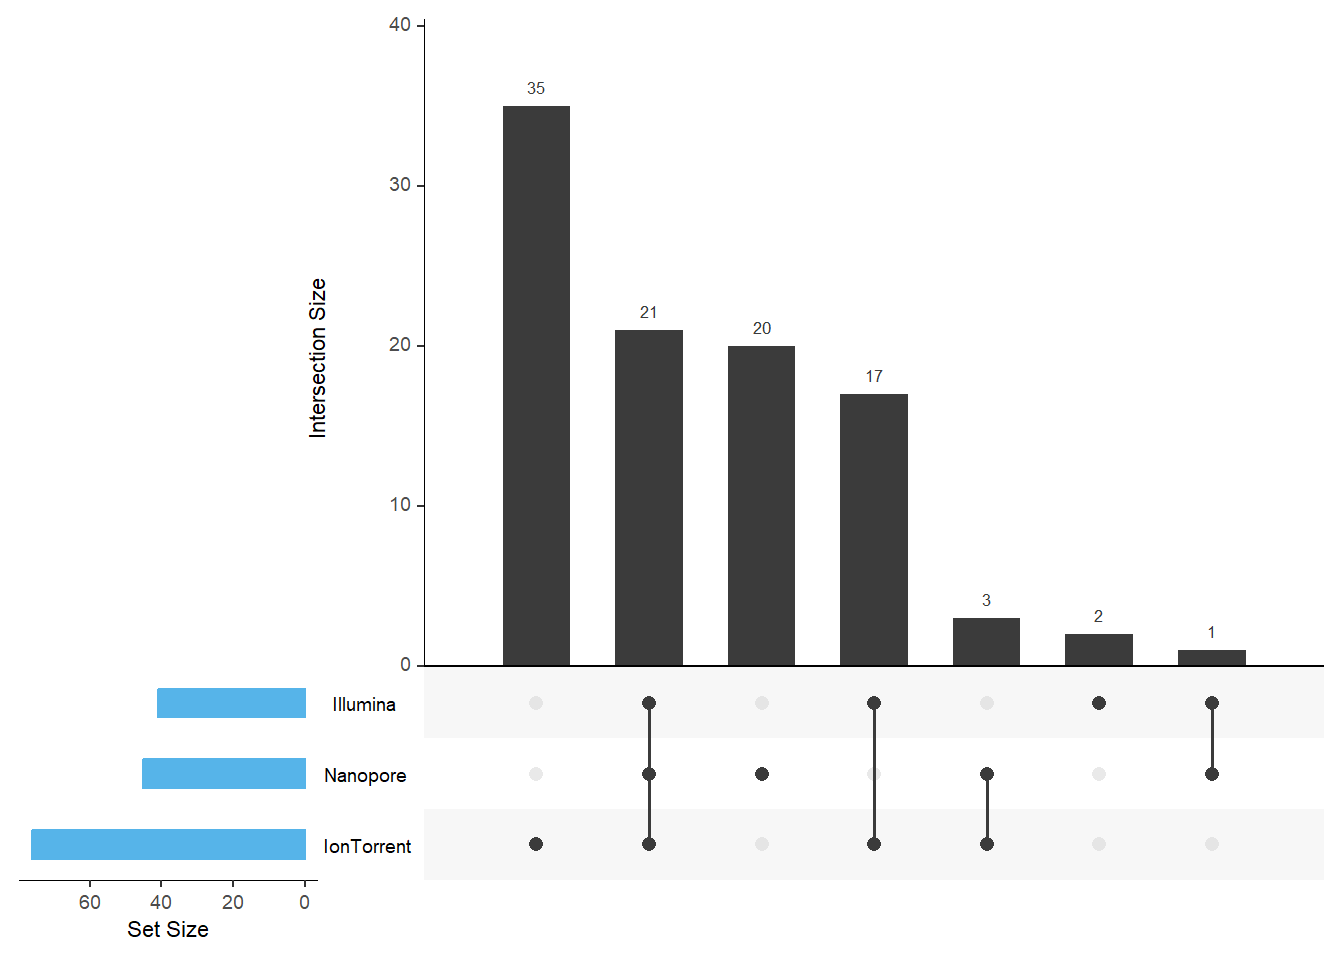
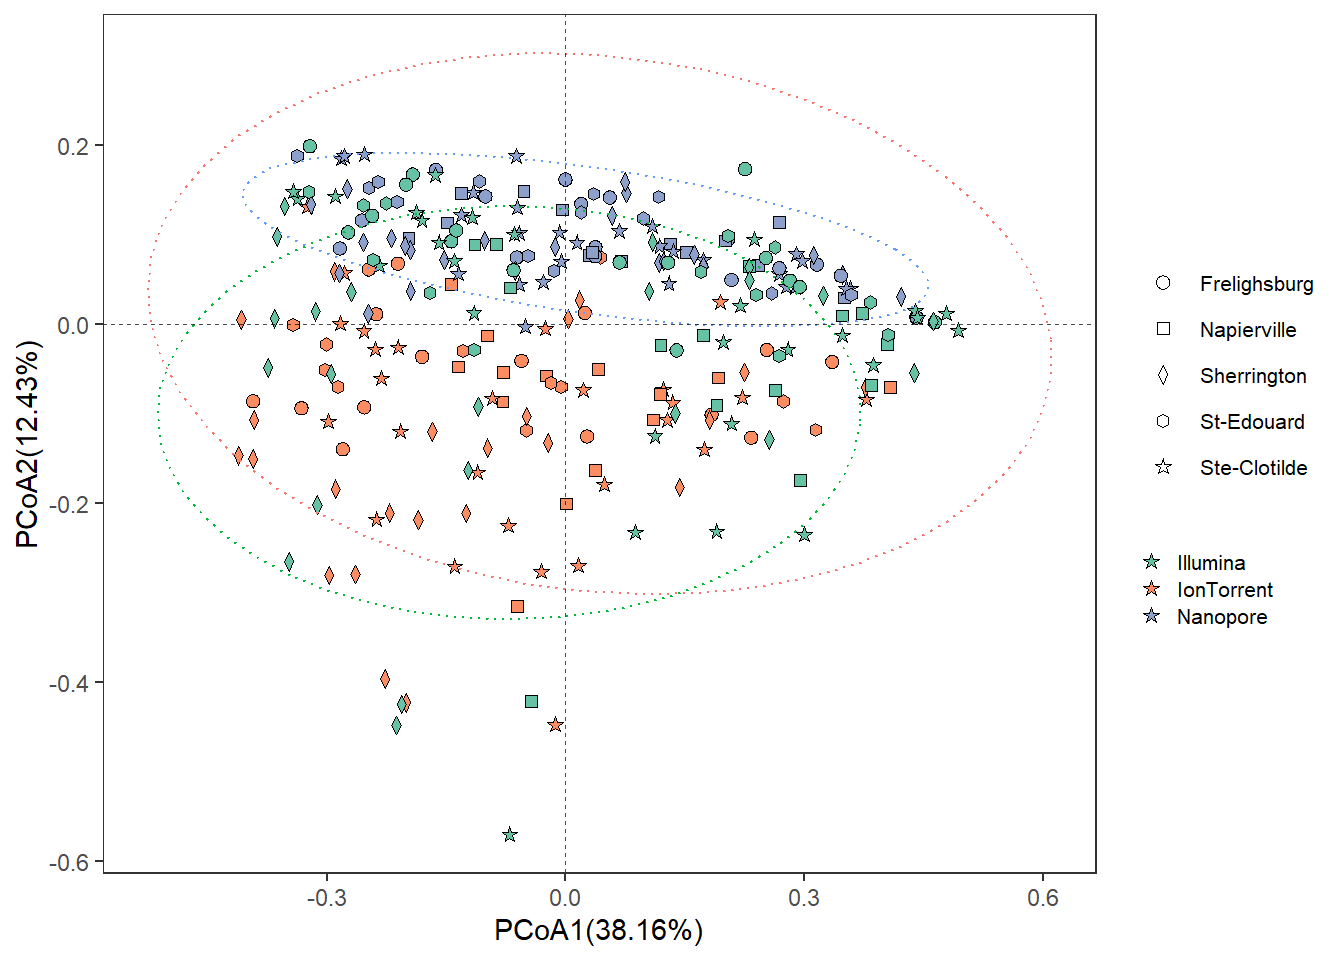
(update)

diff --git a/5_comparison.html b/5_comparison.html
@@ -488,52 +488,88 @@ div.tocify {
 <div class="sourceCode" id="cb1"><pre class="sourceCode r"><code class="sourceCode r"><span id="cb1-1"><a href="#cb1-1" tabindex="-1"></a><span class="fu">library</span>(<span class="st">&quot;MicrobiotaProcess&quot;</span>)</span>
 <span id="cb1-2"><a href="#cb1-2" tabindex="-1"></a><span class="fu">library</span>(<span class="st">&quot;ggpubr&quot;</span>)</span>
 <span id="cb1-3"><a href="#cb1-3" tabindex="-1"></a><span class="fu">library</span>(<span class="st">&quot;ape&quot;</span>)</span>
-<span id="cb1-4"><a href="#cb1-4" tabindex="-1"></a></span>
-<span id="cb1-5"><a href="#cb1-5" tabindex="-1"></a>WorkingPS<span class="ot">&lt;-</span><span class="fu">readRDS</span>(<span class="st">&quot;Processed_data/WorkingPS.rds&quot;</span>)</span></code></pre></div>
-<div class="sourceCode" id="cb2"><pre class="sourceCode r"><code class="sourceCode r"><span id="cb2-1"><a href="#cb2-1" tabindex="-1"></a>WorkingPS_glom <span class="ot">&lt;-</span> <span class="fu">get_taxadf</span>(WorkingPS, </span>
-<span id="cb2-2"><a href="#cb2-2" tabindex="-1"></a>                     <span class="at">taxlevel=</span><span class="dv">7</span>,</span>
-<span id="cb2-3"><a href="#cb2-3" tabindex="-1"></a>                     <span class="at">type =</span> <span class="st">&quot;species&quot;</span>)</span></code></pre></div>
-<div id="upset-plot" class="section level2">
-<h2>Upset Plot</h2>
-<div class="sourceCode" id="cb3"><pre class="sourceCode r"><code class="sourceCode r"><span id="cb3-1"><a href="#cb3-1" tabindex="-1"></a>upsetda <span class="ot">&lt;-</span> <span class="fu">get_upset</span>(<span class="at">obj=</span>WorkingPS_glom, <span class="at">factorNames=</span><span class="st">&quot;seq_tech&quot;</span>)</span>
-<span id="cb3-2"><a href="#cb3-2" tabindex="-1"></a><span class="fu">library</span>(VennDiagram)</span></code></pre></div>
+<span id="cb1-4"><a href="#cb1-4" tabindex="-1"></a><span class="fu">library</span>(<span class="st">&quot;VennDiagram&quot;</span>)</span></code></pre></div>
 <pre><code>## Warning: le package &#39;VennDiagram&#39; a été compilé avec la version R 4.4.1</code></pre>
 <pre><code>## Warning: le package &#39;futile.logger&#39; a été compilé avec la version R 4.4.1</code></pre>
-<div class="sourceCode" id="cb6"><pre class="sourceCode r"><code class="sourceCode r"><span id="cb6-1"><a href="#cb6-1" tabindex="-1"></a><span class="fu">library</span>(UpSetR)</span></code></pre></div>
+<div class="sourceCode" id="cb4"><pre class="sourceCode r"><code class="sourceCode r"><span id="cb4-1"><a href="#cb4-1" tabindex="-1"></a><span class="fu">library</span>(<span class="st">&quot;UpSetR&quot;</span>)</span></code></pre></div>
 <pre><code>## Warning: le package &#39;UpSetR&#39; a été compilé avec la version R 4.4.1</code></pre>
-<div class="sourceCode" id="cb8"><pre class="sourceCode r"><code class="sourceCode r"><span id="cb8-1"><a href="#cb8-1" tabindex="-1"></a><span class="fu">upset</span>(upsetda, <span class="at">sets=</span><span class="fu">unique</span>(<span class="fu">as.vector</span>(<span class="fu">sample_data</span>(WorkingPS_glom)<span class="sc">$</span>seq_tech)), </span>
-<span id="cb8-2"><a href="#cb8-2" tabindex="-1"></a>      <span class="at">sets.bar.color =</span> <span class="st">&quot;#56B4E9&quot;</span>,</span>
-<span id="cb8-3"><a href="#cb8-3" tabindex="-1"></a>      <span class="at">order.by =</span> <span class="st">&quot;freq&quot;</span>, </span>
-<span id="cb8-4"><a href="#cb8-4" tabindex="-1"></a>      <span class="at">empty.intersections =</span> <span class="st">&quot;on&quot;</span>)</span></code></pre></div>
-<p><img src="5_comparison_files/figure-html/unnamed-chunk-3-1.png" width="672" /></p>
-</div>
+<div class="sourceCode" id="cb6"><pre class="sourceCode r"><code class="sourceCode r"><span id="cb6-1"><a href="#cb6-1" tabindex="-1"></a><span class="fu">library</span>(<span class="st">&quot;vegan&quot;</span>)</span>
+<span id="cb6-2"><a href="#cb6-2" tabindex="-1"></a></span>
+<span id="cb6-3"><a href="#cb6-3" tabindex="-1"></a>WorkingPS<span class="ot">&lt;-</span><span class="fu">readRDS</span>(<span class="st">&quot;Processed_data/WorkingPS.rds&quot;</span>)</span></code></pre></div>
+<div class="sourceCode" id="cb7"><pre class="sourceCode r"><code class="sourceCode r"><span id="cb7-1"><a href="#cb7-1" tabindex="-1"></a>WorkingPS_glom <span class="ot">&lt;-</span> <span class="fu">get_taxadf</span>(WorkingPS, </span>
+<span id="cb7-2"><a href="#cb7-2" tabindex="-1"></a>                     <span class="at">taxlevel=</span><span class="dv">7</span>,</span>
+<span id="cb7-3"><a href="#cb7-3" tabindex="-1"></a>                     <span class="at">type =</span> <span class="st">&quot;species&quot;</span>)</span>
+<span id="cb7-4"><a href="#cb7-4" tabindex="-1"></a></span>
+<span id="cb7-5"><a href="#cb7-5" tabindex="-1"></a>WorkingPS_glom_tree <span class="ot">=</span> <span class="fu">rtree</span>(<span class="fu">ntaxa</span>(WorkingPS_glom), </span>
+<span id="cb7-6"><a href="#cb7-6" tabindex="-1"></a>                    <span class="at">rooted=</span><span class="cn">TRUE</span>, </span>
+<span id="cb7-7"><a href="#cb7-7" tabindex="-1"></a>                    <span class="at">tip.label=</span><span class="fu">taxa_names</span>(WorkingPS_glom))</span>
+<span id="cb7-8"><a href="#cb7-8" tabindex="-1"></a></span>
+<span id="cb7-9"><a href="#cb7-9" tabindex="-1"></a></span>
+<span id="cb7-10"><a href="#cb7-10" tabindex="-1"></a>WorkingPS_glom2 <span class="ot">&lt;-</span> <span class="fu">phyloseq</span>(phyloseq<span class="sc">::</span><span class="fu">tax_table</span>(WorkingPS_glom),</span>
+<span id="cb7-11"><a href="#cb7-11" tabindex="-1"></a>                            phyloseq<span class="sc">::</span><span class="fu">otu_table</span>(WorkingPS_glom),</span>
+<span id="cb7-12"><a href="#cb7-12" tabindex="-1"></a>                            WorkingPS_glom_tree,</span>
+<span id="cb7-13"><a href="#cb7-13" tabindex="-1"></a>                            phyloseq<span class="sc">::</span><span class="fu">sample_data</span>(WorkingPS_glom))</span></code></pre></div>
+<pre><code>## Plus d’une classe &quot;phylo&quot; est trouvée en cache : Utilisation de la première, depuis l’espace de noms &#39;phyloseq&#39;</code></pre>
+<pre><code>## Aussi défini par &#39;tidytree&#39;</code></pre>
+<pre><code>## Plus d’une classe &quot;phylo&quot; est trouvée en cache : Utilisation de la première, depuis l’espace de noms &#39;phyloseq&#39;</code></pre>
+<pre><code>## Aussi défini par &#39;tidytree&#39;</code></pre>
+<pre><code>## Plus d’une classe &quot;phylo&quot; est trouvée en cache : Utilisation de la première, depuis l’espace de noms &#39;phyloseq&#39;</code></pre>
+<pre><code>## Aussi défini par &#39;tidytree&#39;</code></pre>
+<pre><code>## Plus d’une classe &quot;phylo&quot; est trouvée en cache : Utilisation de la première, depuis l’espace de noms &#39;phyloseq&#39;</code></pre>
+<pre><code>## Aussi défini par &#39;tidytree&#39;</code></pre>
 <div id="pcoa" class="section level2">
 <h2>PcoA</h2>
-<div class="sourceCode" id="cb9"><pre class="sourceCode r"><code class="sourceCode r"><span id="cb9-1"><a href="#cb9-1" tabindex="-1"></a>pcoa_results <span class="ot">&lt;-</span> <span class="fu">get_pcoa</span>(<span class="at">obj=</span>WorkingPS_glom, </span>
-<span id="cb9-2"><a href="#cb9-2" tabindex="-1"></a>                      <span class="at">distmethod=</span><span class="st">&quot;bray&quot;</span>, </span>
-<span id="cb9-3"><a href="#cb9-3" tabindex="-1"></a>                      <span class="at">method=</span><span class="st">&quot;hellinger&quot;</span>)</span>
-<span id="cb9-4"><a href="#cb9-4" tabindex="-1"></a></span>
-<span id="cb9-5"><a href="#cb9-5" tabindex="-1"></a></span>
-<span id="cb9-6"><a href="#cb9-6" tabindex="-1"></a>pcoaplot1 <span class="ot">&lt;-</span> <span class="fu">ggordpoint</span>(<span class="at">obj=</span>pcoa_results,</span>
-<span id="cb9-7"><a href="#cb9-7" tabindex="-1"></a>                          <span class="at">pc=</span><span class="fu">c</span>(<span class="dv">1</span>, <span class="dv">2</span>),</span>
-<span id="cb9-8"><a href="#cb9-8" tabindex="-1"></a>                          <span class="at">biplot=</span><span class="cn">FALSE</span>,</span>
-<span id="cb9-9"><a href="#cb9-9" tabindex="-1"></a>                          <span class="at">factorNames=</span><span class="fu">c</span>(<span class="st">&quot;seq_tech&quot;</span>, <span class="st">&quot;Region&quot;</span>), </span>
-<span id="cb9-10"><a href="#cb9-10" tabindex="-1"></a>                          <span class="at">ellipse=</span><span class="cn">TRUE</span>,</span>
-<span id="cb9-11"><a href="#cb9-11" tabindex="-1"></a>                          <span class="at">poinsize =</span> <span class="fl">1.8</span>,</span>
-<span id="cb9-12"><a href="#cb9-12" tabindex="-1"></a>                          <span class="at">stroke =</span> <span class="fl">0.2</span>)<span class="sc">+</span></span>
-<span id="cb9-13"><a href="#cb9-13" tabindex="-1"></a>  <span class="fu">theme</span>(<span class="at">legend.box =</span> <span class="st">&quot;horizontal&quot;</span>, <span class="at">legend.position =</span> <span class="st">&quot;right&quot;</span>)<span class="sc">+</span></span>
-<span id="cb9-14"><a href="#cb9-14" tabindex="-1"></a>  <span class="fu">scale_fill_brewer</span>(<span class="at">palette =</span><span class="st">&quot;Set2&quot;</span>)<span class="sc">+</span></span>
-<span id="cb9-15"><a href="#cb9-15" tabindex="-1"></a>  <span class="fu">theme</span>(<span class="at">legend.text=</span><span class="fu">element_text</span>(<span class="at">size=</span><span class="dv">8</span>))<span class="sc">+</span></span>
-<span id="cb9-16"><a href="#cb9-16" tabindex="-1"></a>  <span class="fu">theme</span>(<span class="at">legend.title =</span> <span class="fu">element_blank</span>())<span class="sc">+</span> </span>
-<span id="cb9-17"><a href="#cb9-17" tabindex="-1"></a>  <span class="fu">theme</span>(<span class="at">plot.title =</span> <span class="fu">element_blank</span>())<span class="sc">+</span></span>
-<span id="cb9-18"><a href="#cb9-18" tabindex="-1"></a>  <span class="fu">theme</span>(<span class="at">legend.direction =</span> <span class="st">&quot;vertical&quot;</span>, <span class="at">legend.box =</span> <span class="st">&quot;vertical&quot;</span>)<span class="sc">+</span></span>
-<span id="cb9-19"><a href="#cb9-19" tabindex="-1"></a>  <span class="fu">guides</span>(<span class="at">fill =</span> <span class="fu">guide_legend</span>(<span class="at">keywidth =</span> <span class="fl">0.6</span>, </span>
-<span id="cb9-20"><a href="#cb9-20" tabindex="-1"></a>                             <span class="at">keyheight =</span> <span class="fl">0.7</span>,</span>
-<span id="cb9-21"><a href="#cb9-21" tabindex="-1"></a>                             <span class="at">ncol =</span> <span class="dv">1</span>));pcoaplot1</span></code></pre></div>
+<div class="sourceCode" id="cb16"><pre class="sourceCode r"><code class="sourceCode r"><span id="cb16-1"><a href="#cb16-1" tabindex="-1"></a>pcoa_results <span class="ot">&lt;-</span> <span class="fu">get_pcoa</span>(<span class="at">obj=</span>WorkingPS_glom2, </span>
+<span id="cb16-2"><a href="#cb16-2" tabindex="-1"></a>                      <span class="at">distmethod=</span><span class="st">&quot;wunifrac&quot;</span>, </span>
+<span id="cb16-3"><a href="#cb16-3" tabindex="-1"></a>                      <span class="at">method=</span><span class="st">&quot;hellinger&quot;</span>)</span>
+<span id="cb16-4"><a href="#cb16-4" tabindex="-1"></a></span>
+<span id="cb16-5"><a href="#cb16-5" tabindex="-1"></a></span>
+<span id="cb16-6"><a href="#cb16-6" tabindex="-1"></a>pcoaplot1 <span class="ot">&lt;-</span> <span class="fu">ggordpoint</span>(<span class="at">obj=</span>pcoa_results,</span>
+<span id="cb16-7"><a href="#cb16-7" tabindex="-1"></a>                          <span class="at">pc=</span><span class="fu">c</span>(<span class="dv">1</span>, <span class="dv">2</span>),</span>
+<span id="cb16-8"><a href="#cb16-8" tabindex="-1"></a>                          <span class="at">biplot=</span><span class="cn">FALSE</span>,</span>
+<span id="cb16-9"><a href="#cb16-9" tabindex="-1"></a>                          <span class="at">factorNames=</span><span class="fu">c</span>(<span class="st">&quot;seq_tech&quot;</span>, <span class="st">&quot;Region&quot;</span>), </span>
+<span id="cb16-10"><a href="#cb16-10" tabindex="-1"></a>                          <span class="at">ellipse=</span><span class="cn">TRUE</span>,</span>
+<span id="cb16-11"><a href="#cb16-11" tabindex="-1"></a>                          <span class="at">poinsize =</span> <span class="fl">1.8</span>,</span>
+<span id="cb16-12"><a href="#cb16-12" tabindex="-1"></a>                          <span class="at">stroke =</span> <span class="fl">0.2</span>)<span class="sc">+</span></span>
+<span id="cb16-13"><a href="#cb16-13" tabindex="-1"></a>  <span class="fu">theme</span>(<span class="at">legend.box =</span> <span class="st">&quot;horizontal&quot;</span>, <span class="at">legend.position =</span> <span class="st">&quot;right&quot;</span>)<span class="sc">+</span></span>
+<span id="cb16-14"><a href="#cb16-14" tabindex="-1"></a>  <span class="fu">scale_fill_brewer</span>(<span class="at">palette =</span><span class="st">&quot;Set2&quot;</span>)<span class="sc">+</span></span>
+<span id="cb16-15"><a href="#cb16-15" tabindex="-1"></a>  <span class="fu">theme</span>(<span class="at">legend.text=</span><span class="fu">element_text</span>(<span class="at">size=</span><span class="dv">8</span>))<span class="sc">+</span></span>
+<span id="cb16-16"><a href="#cb16-16" tabindex="-1"></a>  <span class="fu">theme</span>(<span class="at">legend.title =</span> <span class="fu">element_blank</span>())<span class="sc">+</span> </span>
+<span id="cb16-17"><a href="#cb16-17" tabindex="-1"></a>  <span class="fu">theme</span>(<span class="at">plot.title =</span> <span class="fu">element_blank</span>())<span class="sc">+</span></span>
+<span id="cb16-18"><a href="#cb16-18" tabindex="-1"></a>  <span class="fu">theme</span>(<span class="at">legend.direction =</span> <span class="st">&quot;vertical&quot;</span>, <span class="at">legend.box =</span> <span class="st">&quot;vertical&quot;</span>)<span class="sc">+</span></span>
+<span id="cb16-19"><a href="#cb16-19" tabindex="-1"></a>  <span class="fu">guides</span>(<span class="at">fill =</span> <span class="fu">guide_legend</span>(<span class="at">keywidth =</span> <span class="fl">0.6</span>, </span>
+<span id="cb16-20"><a href="#cb16-20" tabindex="-1"></a>                             <span class="at">keyheight =</span> <span class="fl">0.7</span>,</span>
+<span id="cb16-21"><a href="#cb16-21" tabindex="-1"></a>                             <span class="at">ncol =</span> <span class="dv">1</span>));pcoaplot1</span></code></pre></div>
+<p><img src="5_comparison_files/figure-html/unnamed-chunk-3-1.png" width="672" /></p>
+</div>
+<div id="upset-plot" class="section level2">
+<h2>Upset Plot</h2>
+<div class="sourceCode" id="cb17"><pre class="sourceCode r"><code class="sourceCode r"><span id="cb17-1"><a href="#cb17-1" tabindex="-1"></a>upsetda <span class="ot">&lt;-</span> <span class="fu">get_upset</span>(<span class="at">obj=</span>WorkingPS_glom2, <span class="at">factorNames=</span><span class="st">&quot;seq_tech&quot;</span>)</span>
+<span id="cb17-2"><a href="#cb17-2" tabindex="-1"></a></span>
+<span id="cb17-3"><a href="#cb17-3" tabindex="-1"></a><span class="fu">upset</span>(upsetda, <span class="at">sets=</span><span class="fu">unique</span>(<span class="fu">as.vector</span>(<span class="fu">sample_data</span>(WorkingPS_glom2)<span class="sc">$</span>seq_tech)), </span>
+<span id="cb17-4"><a href="#cb17-4" tabindex="-1"></a>      <span class="at">sets.bar.color =</span> <span class="st">&quot;#56B4E9&quot;</span>,</span>
+<span id="cb17-5"><a href="#cb17-5" tabindex="-1"></a>      <span class="at">order.by =</span> <span class="st">&quot;freq&quot;</span>, </span>
+<span id="cb17-6"><a href="#cb17-6" tabindex="-1"></a>      <span class="at">empty.intersections =</span> <span class="st">&quot;on&quot;</span>)</span></code></pre></div>
 <p><img src="5_comparison_files/figure-html/unnamed-chunk-4-1.png" width="672" /></p>
 </div>
 <div id="permanova" class="section level2">
 <h2>Permanova</h2>
+<div class="sourceCode" id="cb18"><pre class="sourceCode r"><code class="sourceCode r"><span id="cb18-1"><a href="#cb18-1" tabindex="-1"></a>dist_mat <span class="ot">&lt;-</span> <span class="fu">get_dist</span>(WorkingPS_glom2, <span class="at">distmethod =</span><span class="st">&quot;wunifrac&quot;</span>, <span class="at">method=</span><span class="st">&quot;hellinger&quot;</span>)</span>
+<span id="cb18-2"><a href="#cb18-2" tabindex="-1"></a>sampleda <span class="ot">&lt;-</span> <span class="fu">data.frame</span>(<span class="fu">sample_data</span>(WorkingPS_glom2), <span class="at">check.names=</span><span class="cn">FALSE</span>)</span>
+<span id="cb18-3"><a href="#cb18-3" tabindex="-1"></a>sampleda <span class="ot">&lt;-</span> sampleda[<span class="fu">match</span>(<span class="fu">colnames</span>(<span class="fu">as.matrix</span>(dist_mat)),<span class="fu">rownames</span>(sampleda)),,drop<span class="ot">=</span><span class="cn">FALSE</span>]</span>
+<span id="cb18-4"><a href="#cb18-4" tabindex="-1"></a>sampleda<span class="sc">$</span>seq_tech <span class="ot">&lt;-</span> <span class="fu">factor</span>(sampleda<span class="sc">$</span>seq_tech)</span>
+<span id="cb18-5"><a href="#cb18-5" tabindex="-1"></a><span class="fu">set.seed</span>(<span class="dv">1024</span>)</span>
+<span id="cb18-6"><a href="#cb18-6" tabindex="-1"></a>adonis_res <span class="ot">&lt;-</span> <span class="fu">adonis</span>(dist_mat <span class="sc">~</span> seq_tech<span class="sc">*</span>Week, <span class="at">data=</span>sampleda, <span class="at">permutation=</span><span class="dv">9999</span>)</span></code></pre></div>
+<pre><code>## Warning in adonis(dist_mat ~ seq_tech * Week, data = sampleda, permutation = 9999): &#39;adonis&#39; est obsolète.
+## Utilisez plutôt ‘adonis2’.
+## Voir help(&quot;Deprecated&quot;) et help(&quot;vegan-deprecated&quot;).</code></pre>
+<div class="sourceCode" id="cb20"><pre class="sourceCode r"><code class="sourceCode r"><span id="cb20-1"><a href="#cb20-1" tabindex="-1"></a><span class="fu">data.frame</span>(adonis_res<span class="sc">$</span>aov.tab)</span></code></pre></div>
+<pre><code>##                Df SumsOfSqs    MeanSqs   F.Model         R2 Pr..F.
+## seq_tech        2  4.783406 2.39170301 32.035776 0.12468904 0.0001
+## Week           15 13.903790 0.92691933 12.415664 0.36243008 0.0001
+## seq_tech:Week  30  2.578976 0.08596585  1.151474 0.06722615 0.1079
+## Residuals     229 17.096511 0.07465725        NA 0.44565473     NA
+## Total         276 38.362682         NA        NA 1.00000000     NA</code></pre>
 </div>
 
 
